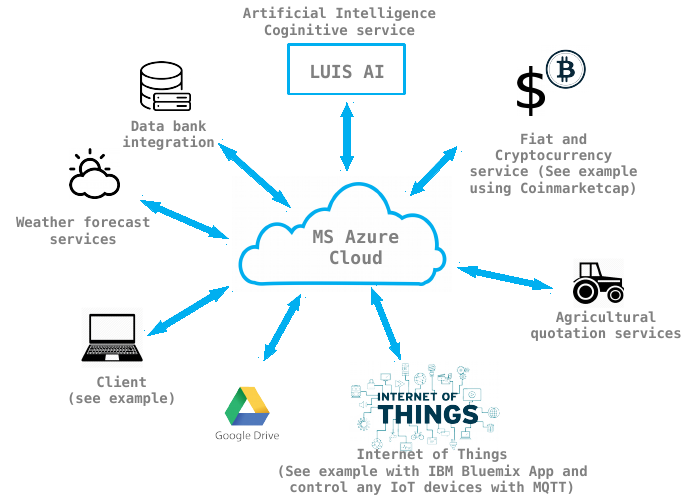
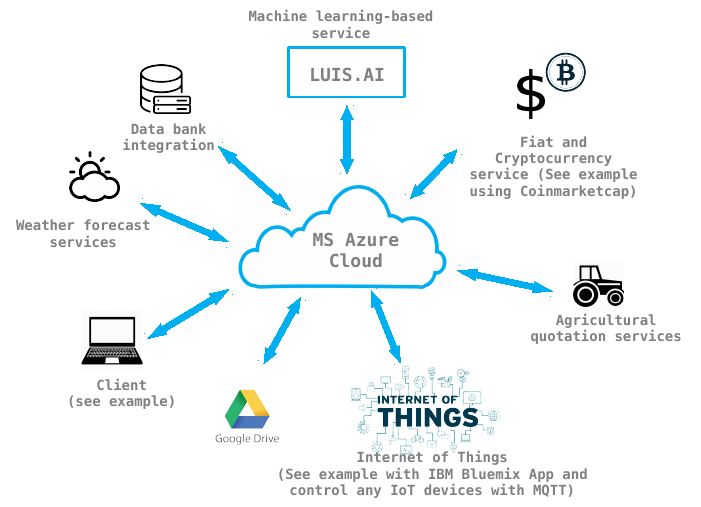
Changing wrong concept about Machine Learning

diff --git a/chatbot-server/cognitive_mocked_data.js b/chatbot-server/cognitive_mocked_data.js
@@ -59,7 +59,7 @@ const LANG_PT_BR = {
 	default_coin: REAL_BRL,
 	about_my_dev_hdr: "Sobre meu desenvolvedor :)",
 	dev_details: "Desenvolvedor de aplicativos e hardware",
-	dev_desc: "Focado em tecnologias disruptivas tais como: Inteligência Artificial, Criptomoedas, soluções Linux, soluções ARM, criptografia (ECDSA, ECDH, AES, RSA), IoT, Automação industrial e residencial, desenvolvimento C e Assembly, aplicativos web (node.js, Python e PHP), NoSQL, SQL, projetos de placas PCB, Azure, Amazon, Google Cloud, IBM Bluemix, circuitos elétricos e magnéticos",
+	dev_desc: "Focado em tecnologias disruptivas tais como: Inteligência Artificial, Machine Learning, Criptomoedas, soluções Linux, soluções ARM, criptografia (ECDSA, ECDH, AES, RSA), IoT, Automação industrial e residencial, desenvolvimento C e Assembly, aplicativos web (node.js, Python e PHP), NoSQL, SQL, projetos de placas PCB, Azure, Amazon, Google Cloud, IBM Bluemix, circuitos elétricos e magnéticos",
 	dev_email_contact: "fabioegel@gmail.com",
 	dev_github_button: "Meu github",
 	dev_contact_button: "Entre em contato",
@@ -73,7 +73,7 @@ const LANG_PT_BR = {
 	go_away_msg: "Você quer realmente sair %s?",
 	saying_goodbye: "Tchau %s e volte sempre e tenha um ótimo dia ;)",
 	thats_good: "Que bom que você quer ficar para trocar ideias",
-	whoami1: "Sou um chatbot que integra tecnologias disruptivas tais como Inteligência Artificial, IoT, Nuvem e API's como: cotação de moedas, criptomoedas, previsão do tempo (em desenvolvimento), serviços em nuvem entre outros",
+	whoami1: "Sou um chatbot que integra tecnologias disruptivas tais como Machine Learning, IoT, Nuvem e API's como: cotação de moedas, criptomoedas, previsão do tempo (em desenvolvimento), serviços em nuvem entre outros",
 	whoami2: "Atualmente já sou capaz e treinado para reconhecer textos em dois idiomas (Inglês e Português do Brasil), consultar cotações de criptomoedas e ainda interagir com dispositivos de Internet das Coisas (IoT) via núvem IBM. Você pode configurar seu Arduino ou Raspberry PI para eu interagir com eles usando  serviços IBM ou até outros de sua necessidade",
 	whoami3: "Em breve posso te apresentar mais curiosidades sobre mim. Ainda estou sendo treinado e desenvolvido para fazer previsões do tempo e consultar dados de várias cidades :)",
 	whoami4:"Atualmente integro nuvens como: Google Drive (consulta de planilhas), MS Azure (serviços cognitivos) e IBM Bluemix (IoT). Posso ser integrado a muito mais :)",
@@ -117,7 +117,7 @@ const LANG_EN_US = {
 	default_coin: null,
 	about_my_dev_hdr: "About my developer :)",
 	dev_details: "Application and Hardware Developer",
-	dev_desc: "Interested to disruptive technologies: Artificial Intelligence, cryptocurrencies, Linux and ARM solutions, (ECDSA, ECDH, AES, RSA) cryptograpy, IoT, Industrial and home automation, C and Assembly languages, Webapplication (Node.JS, Python and PHP), NoSQL, SQL, PCB hardware design, Azure, Amazon, Google Cloud, electric and magnetics circuits",
+	dev_desc: "Interested into disruptive technologies: Artificial Intelligence, Machine Learning, cryptocurrencies, Linux and ARM solutions, (ECDSA, ECDH, AES, RSA) cryptograpy, IoT, Industrial and home automation, C and Assembly languages, Webapplication (Node.JS, Python and PHP), NoSQL, SQL, PCB hardware design, Azure, Amazon, Google Cloud, electric and magnetics circuits",
 	dev_email_contact: "fabioegel@gmail.com",
 	dev_github_button: "My github",
 	dev_contact_button: "Contact me at",
@@ -131,7 +131,7 @@ const LANG_EN_US = {
 	go_away_msg: "%s are you sure?",
 	saying_goodbye: "So long %s. Come back soon and have a nice day ;)",
 	thats_good: "That's good to know you want to stay here to chat more",
-	whoami1: "I am a chatbot on which integrates disruptive technologies such as Artificial Intelligence, IoT, Cloud Services and API's like coin price, cryptocurrencies prices, wheather forecast (in development) et. al.",
+	whoami1: "I am a chatbot on which integrates disruptive technologies such as Artificial Intelligence, Machine Learning, IoT, Cloud Services and API's like coin price, cryptocurrencies prices, wheather forecast (in development) et. al.",
 	whoami2: "By now I am ready and trained to recognize bilingual text (English and Brazilian Portuguese), check some coins and cryptocurrencies prices and receive and send command to IoT devices through IBM. You can also configure your Arduino or Raspberry PI to integrate IBM IoT services. You can also integrate another cloud as well.",
 	whoami3:  "Soon I will be able to show more evolution about me. I am being trained and developed to check wheater forecast in many cities :)",
 	whoami4:"Also I am already integrated to clouds: Google Drive (Google Sheets), MS Azure (cognitive services) and IBM Bluemix (IoT). I am able be integrated to many more.",

diff --git a/chatbot-server/api_config.js b/chatbot-server/api_config.js
@@ -11,8 +11,8 @@
 
 	Here you need:
 
-		INTEGRATE LUIS.AI ARTIFICIAL INTELLIGENCE
-		=========================================
+		INTEGRATE LUIS.AI
+		=================
 
 		- Use Brazilian Portuguese culture endpoit (if you are using Brazilian Portuguese Language)
 		- Use US English culture endpoit (if you are using US English Language)
@@ -52,14 +52,14 @@ const SERVER_LANG_ENG_US=2;
 	USE_LANG=SERVER_LANG_ENG_US; (for US ENGLISH)
 */
 
-const USE_LANG=SERVER_LANG_ENG_US; // USE: USE_LANG=SERVER_LANG_PT_BR; for Brazilian Portuguese culture
+const USE_LANG=SERVER_LANG_ENG_US;//SERVER_LANG_PT_BR;
 
 //********** END SELECT CHATBOT COGNITIVE SERVICE LANGUAGE FOR (LUIS.AI) **********//
 
 
-//********** BEGIN ARTIFICIAL INTELLIGENCE API (LUIS.AI) **********//
+//********** BEGIN LUIS.AI API **********//
 
-// Configuration for BRAZILIAN PORTUGUESE culture endpoint
+// Configuration for Brazilian Portuguese culture endpoint
 const luisApplication_pt_br = {
     applicationId: '<YOUR PORTUGUESE BR APP ID>',// Your Brazilian Portuguese culture AppId. Example: 'f220162c-a4f2-475c-804d-4d39b0e1c3ae'
     endpointKey: '<YOUR PORTUGUESE BR SUBSCRIPTION KEY>',//Your Brazilian Portuguese culture subscriptionKey. Example: '21a2efcb7cdfec03f65c33811b682581'
@@ -78,7 +78,7 @@ var botFrameworkAdapter = {
     appPassword: null //Your MS App Password (optional). Don't care about for this example
 }
 
-const LUIS_PORT=3978; // You don't need to change this.
+const LUIS_PORT=3978;
 
 // Create configuration for LuisRecognizer's runtime behavior.
 const luisPredictionOptions = {
@@ -87,7 +87,7 @@ const luisPredictionOptions = {
     staging: true// false // Change to false in "production" mode
 }
 
-//********** END OF ARTIFICIAL INTELLIGENCE API **********//
+//********** END OF LUIS.AI API **********//
 
 
 
@@ -99,7 +99,7 @@ const luisPredictionOptions = {
 
 //********** BEGIN CRIPTOCURRENCY API CONFIG **********//
 
-const COINMARKETCAP_API="https://api.coinmarketcap.com/v1/ticker/"; // You don't need change this
+const COINMARKETCAP_API="https://api.coinmarketcap.com/v1/ticker/";
 
 //********** END CRIPTOCURRENCY API CONFIG **********//
 
@@ -111,7 +111,7 @@ const COINMARKETCAP_API="https://api.coinmarketcap.com/v1/ticker/"; // You don't
 
 //********** BEGIN FIAT CURRENCY API CONFIG **********//
 
-const APILAYER_NET_API="http://www.apilayer.net/api/live?access_key=9d58753a7da5cc911f6d8f61410ca0cb&format=1"; // You don't need to change this
+const APILAYER_NET_API="http://www.apilayer.net/api/live?access_key=9d58753a7da5cc911f6d8f61410ca0cb&format=1";
 
 //********** END FIAT CURRENCY API CONFIG **********//
 

diff --git a/chatbot-server/README.md b/chatbot-server/README.md
@@ -28,7 +28,7 @@ Select your culture (<YOUR_PATH>/myCryptoBot/luis.ai_training_cultures/myChatBot
 </p>
 
 ```javascript
-//********** BEGIN ARTIFICIAL INTELLIGENCE API (LUIS.AI) **********//
+//********** BEGIN LUIS.AI API **********//
 
 // Configuration for BRAZILIAN PORTUGUESE culture endpoint
 const luisApplication_pt_br = {
@@ -98,7 +98,7 @@ and set IBM Bluemix IoT API:
 ```javascript
 //********** BEGIN IBM IoT PLATFORM **********//
 
-// By default IBM Bluemix is disabled. If you want to enable it, set F_USE_IBM_IOT=true and configure your IoT device to interact with myCryptoBot  Artificial Intelligence service.
+// By default IBM Bluemix is disabled. If you want to enable it, set F_USE_IBM_IOT=true and configure your IoT device to interact with myCryptoBot service.
 
 var ibmAppClientConfig = {
   org: '<YOUR IOT_ORG>', // Your IBM IoT appOrg. Example: org: 'spo6lv'

diff --git a/luis.ai_training_cultures/README.md b/luis.ai_training_cultures/README.md
@@ -95,7 +95,7 @@ const USE_LANG=SERVER_LANG_PT_BR; //for BRAZILIAN PORTUGUESE.
 and set same LUIS API endpoints (**applicationId**, **endpointKey** and **azureRegion**) to myCryptoBot application.
 
 ```javascript
-//********** BEGIN ARTIFICIAL INTELLIGENCE API (LUIS.AI) **********//
+//********** BEGIN LUIS.AI API **********//
 
 // Configuration for BRAZILIAN PORTUGUESE culture endpoint
 const luisApplication_pt_br = {
